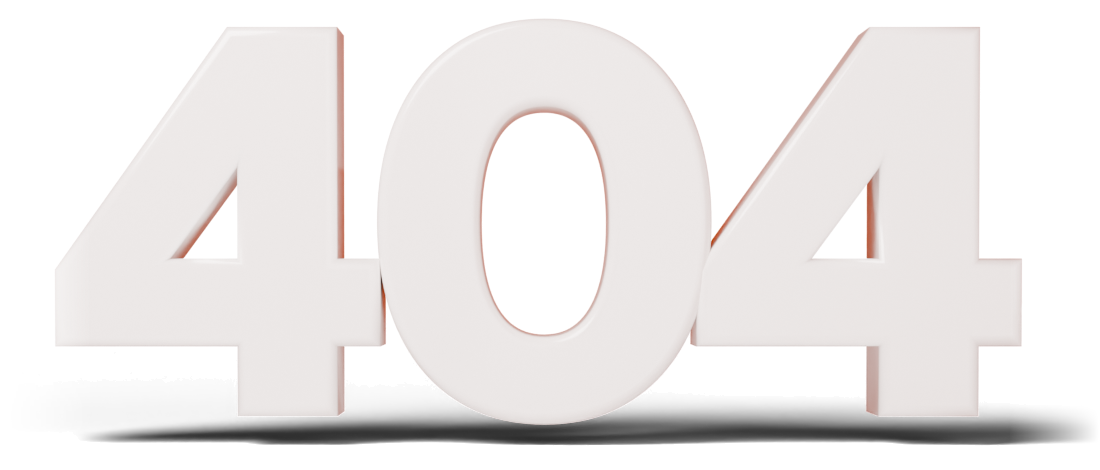
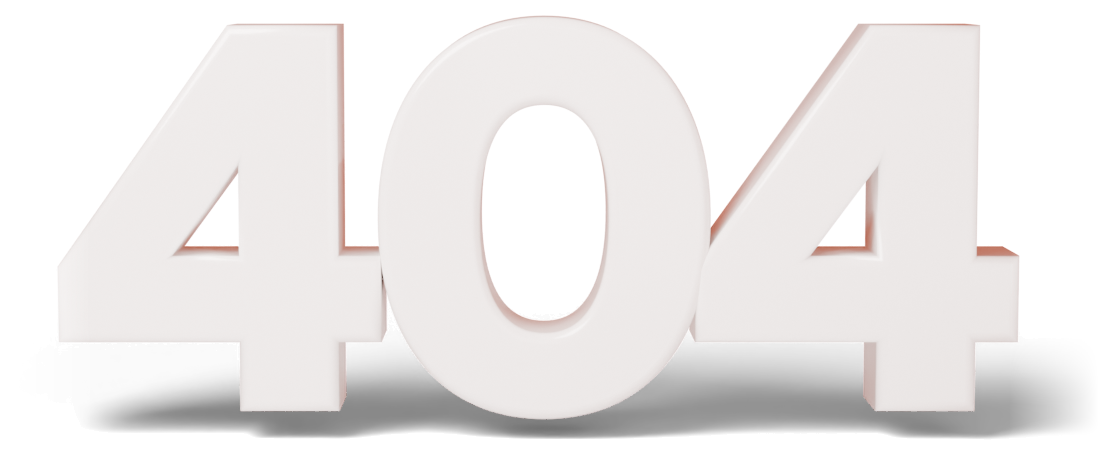
Landing 404: miekki cien przy napisie 404, wiekszy naglowek blizej napisu, wiecej miejsca nad przyciskiem

diff --git a/landing/404.html b/landing/404.html
@@ -21,7 +21,7 @@
   --m-ease:cubic-bezier(.2,.8,.2,1); --m-ease-spring:cubic-bezier(.34,1.4,.64,1);
   --m-dur-press-in:.1s; --m-dur-press-out:.16s; --m-dur-in:.4s; --m-dur-tile:.7s;
   --vh:100svh;
-  --cb:clamp(176px,24svh,210px);                   /* band under the film for the text and the button */
+  --cb:clamp(190px,25svh,228px);                   /* band under the film for the text and the button */
   --vv:calc((var(--vh) - var(--cb)) / .88);        /* film height: its empty floor (last 12%) runs under the text */
   --w:min(calc(var(--vv) * .78), 94vw);            /* width of the 404 */
   --h:calc(var(--w) * 470 / 1100);                 /* its height (render 1100 x 470) */
@@ -42,11 +42,11 @@ body{background:var(--bg); color:#fff; font-family:var(--m-font); overflow:hidde
   padding:max(18px, env(safe-area-inset-top)) max(22px, env(safe-area-inset-right)) 0 max(22px, env(safe-area-inset-left));}
 .logo{display:flex; align-items:center; min-height:44px; color:#fff; text-decoration:none;}
 .copy{position:absolute; z-index:2; left:0; right:0; bottom:0; min-height:var(--cb); align-content:start; display:grid; justify-items:center; gap:14px; text-align:center;
-  padding:clamp(18px,3svh,32px) max(22px, env(safe-area-inset-right)) max(24px, calc(env(safe-area-inset-bottom) + 12px)) max(22px, env(safe-area-inset-left));}
-.copy h1{margin:0; font-size:clamp(1.25rem,2.2vw,1.6rem); font-weight:400; letter-spacing:-.02em; line-height:1.2;}
+  padding:clamp(2px,1svh,12px) max(22px, env(safe-area-inset-right)) max(24px, calc(env(safe-area-inset-bottom) + 12px)) max(22px, env(safe-area-inset-left));}
+.copy h1{margin:0; font-size:clamp(1.75rem,3vw,2.4rem); font-weight:500; letter-spacing:-.02em; line-height:1.1;}
 .copy p{margin:-6px 0 0; font-size:clamp(.95rem,1.3vw,1.05rem); line-height:1.4; color:rgba(255,255,255,.9); max-width:34ch;}
 .home{display:inline-flex; align-items:center; min-height:50px; padding:0 26px; border-radius:999px; background:#fff; color:var(--ink);
-  font:500 16px/1 var(--m-font); text-decoration:none; transition:transform var(--m-dur-press-out) var(--m-ease);}
+  margin-top:14px; font:500 16px/1 var(--m-font); text-decoration:none; transition:transform var(--m-dur-press-out) var(--m-ease);}
 .home:active{transform:scale(.97); transition-duration:var(--m-dur-press-in);}
 @media (prefers-reduced-motion: no-preference){
   .n404{animation:n-in var(--m-dur-tile) var(--m-ease-spring) .15s backwards;}
@@ -59,7 +59,7 @@ body{background:var(--bg); color:#fff; font-family:var(--m-font); overflow:hidde
 <body>
 <main class="stage">
   <video src="/img/404/press.mp4" poster="/img/404/press.jpg" muted playsinline loop autoplay preload="auto" aria-hidden="true"></video>
-  <img class="n404" src="/img/404/404.png" width="1100" height="470" alt="404">
+  <img class="n404" src="/img/404/404.png?v=2" width="1100" height="470" alt="404">
   <header class="top"><a class="logo" href="/" aria-label="Mekkio, strona główna"><svg viewBox="0 0 236 58" width="108" height="27" aria-hidden="true" fill="currentColor"><path d="M214.412 58.0003C210.234 58.0003 206.557 57.1011 203.384 55.3027C200.263 53.4513 197.829 50.8594 196.084 47.527C194.391 44.1945 193.545 40.3067 193.545 35.8634C193.545 31.3673 194.391 27.4795 196.084 24.1999C197.829 20.8675 200.263 18.302 203.384 16.5036C206.557 14.6522 210.234 13.7266 214.412 13.7266C218.591 13.7266 222.241 14.6522 225.362 16.5036C228.483 18.302 230.889 20.8675 232.582 24.1999C234.328 27.4795 235.2 31.3673 235.2 35.8634C235.2 40.3067 234.328 44.1945 232.582 47.527C230.889 50.8594 228.483 53.4513 225.362 55.3027C222.241 57.1011 218.591 58.0003 214.412 58.0003ZM214.412 49.7486C217.692 49.7486 220.204 48.532 221.95 46.0988C223.748 43.6656 224.648 40.2538 224.648 35.8634C224.648 31.526 223.748 28.1407 221.95 25.7075C220.204 23.2214 217.692 21.9783 214.412 21.9783C211.133 21.9783 208.594 23.2214 206.795 25.7075C204.997 28.1407 204.098 31.526 204.098 35.8634C204.098 40.2538 204.997 43.6656 206.795 46.0988C208.594 48.532 211.133 49.7486 214.412 49.7486Z" /><path d="M178.97 57.0481C178.127 57.0481 177.444 56.365 177.444 55.5223V16.2044C177.444 15.3617 178.127 14.6786 178.97 14.6786H186.074C186.917 14.6786 187.6 15.3617 187.6 16.2044V55.5223C187.6 56.365 186.917 57.0481 186.074 57.0481H178.97ZM178.811 9.04518C177.968 9.04518 177.285 8.36204 177.285 7.51934V1.52584C177.285 0.68314 177.968 0 178.811 0H186.312C187.155 0 187.838 0.683142 187.838 1.52584V7.51934C187.838 8.36204 187.155 9.04518 186.312 9.04518H178.811Z" /><path d="M87.5634 58.0003C83.3318 58.0003 79.6555 57.1011 76.5347 55.3027C73.4138 53.4513 71.0071 50.8594 69.3144 47.527C67.6217 44.1945 66.7754 40.3067 66.7754 35.8634C66.7754 31.4202 67.6217 27.5588 69.3144 24.2793C71.0071 20.9468 73.3874 18.3549 76.4553 16.5036C79.5762 14.6522 83.1995 13.7266 87.3254 13.7266C91.3455 13.7266 94.8631 14.6258 97.8781 16.4242C100.946 18.2227 103.3 20.8146 104.94 24.1999C106.579 27.5853 107.399 31.6582 107.399 36.4189V37.194C107.399 38.0367 106.716 38.7198 105.874 38.7198H78.9436C78.0667 38.7198 77.3633 39.459 77.4773 40.3285C77.8597 43.2449 78.815 45.5122 80.3432 47.1303C82.1945 48.9816 84.6277 49.9073 87.6428 49.9073C89.9173 49.9073 91.7951 49.4048 93.2762 48.3998C94.4884 47.5637 95.4033 46.48 96.021 45.1484C96.3159 44.5125 96.9412 44.0658 97.6408 44.1086L104.955 44.5552C105.926 44.6145 106.598 45.5587 106.245 46.4656C104.966 49.7513 102.864 52.406 99.9411 54.4299C96.5557 56.8102 92.4298 58.0003 87.5634 58.0003ZM77.6238 30.1866C77.4253 31.0851 78.1433 31.8963 79.0635 31.8963H95.3034C96.1829 31.8963 96.8887 31.1523 96.7607 30.2821C96.374 27.6519 95.4505 25.651 93.9903 24.2793C92.2447 22.5866 90.0231 21.7403 87.3254 21.7403C84.6277 21.7403 82.3796 22.6131 80.5812 24.3586C79.1524 25.7874 78.1666 27.73 77.6238 30.1866Z" /><path d="M1.52584 57.0469C0.683143 57.0469 0 56.3638 0 55.5211V2.23873C0 1.39603 0.683142 0.712891 1.52584 0.712891H12.8091C13.4543 0.712891 14.0298 1.11874 14.2464 1.72653L27.9992 40.3187C28.4808 41.6702 30.3922 41.6702 30.8738 40.3187L44.6266 1.72653C44.8432 1.11874 45.4187 0.712891 46.0639 0.712891H57.3472C58.1899 0.712891 58.873 1.39603 58.873 2.23873V55.5211C58.873 56.3638 58.1899 57.0469 57.3472 57.0469H50.0842C49.2415 57.0469 48.5583 56.3638 48.5583 55.5211V26.7757C48.5583 25.0702 46.1859 24.6496 45.5996 26.2512L34.7224 55.9662C34.5022 56.5676 33.9299 56.9676 33.2895 56.9676H25.5835C24.9431 56.9676 24.3708 56.5676 24.1507 55.9662L13.2734 26.2512C12.6871 24.6496 10.3147 25.0702 10.3147 26.7757V55.5211C10.3147 56.3638 9.63154 57.0469 8.78884 57.0469H1.52584Z" /><path d="M114.631 57.167C113.789 57.167 113.105 56.4839 113.105 55.6412V2.35885C113.105 1.51615 113.789 0.833008 114.631 0.833008H121.736C122.578 0.833008 123.261 1.51615 123.261 2.35885V29.9714C123.261 31.3662 124.978 32.0298 125.917 30.9975L140.184 15.2972C140.473 14.9789 140.883 14.7975 141.313 14.7975H149.642C150.979 14.7975 151.67 16.3956 150.753 17.3692L137.438 31.5127C136.944 32.037 136.884 32.835 137.294 33.4271L152.072 54.7727C152.772 55.7846 152.048 57.167 150.817 57.167H143.124C142.612 57.167 142.134 56.9099 141.852 56.4826L130.988 40.0476C130.445 39.2273 129.28 39.1265 128.605 39.8417L123.678 45.0625C123.41 45.3457 123.261 45.7204 123.261 46.1099V55.6412C123.261 56.4839 122.578 57.167 121.736 57.167H114.631Z" /><path d="M145.039 30.9989L159.306 15.2985C159.595 14.9803 160.005 14.7988 160.435 14.7988H168.764C170.101 14.7988 170.792 16.3969 169.875 17.3706L156.56 31.514C156.066 32.0383 156.006 32.8364 156.416 33.4284L171.194 54.774C171.895 55.786 171.17 57.1684 169.939 57.1684H162.247C161.734 57.1684 161.256 56.9113 160.974 56.4839L150.11 40.049C149.568 39.2286 148.402 39.1279 147.727 39.843L143.29 44.2723C141.054 44.2723 137.881 42.7079 137.471 41.0778C136.916 38.8726 140.089 35.9482 145.039 30.9989Z" /></svg></a></header>
   <div class="copy">
     <h1>Tej strony tu nie ma.</h1>
